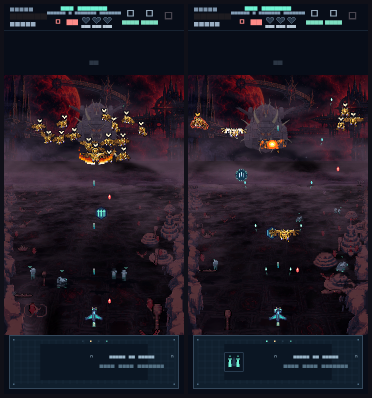
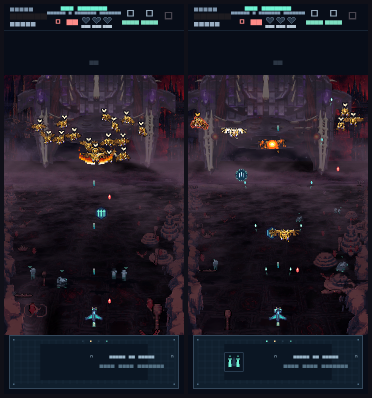
boss-carrier-wire: specs, ledger and review sheets
- boss-grandeur deltas: carrier framing and draw-size floors, runtime decay
  overlay, wreck shadows, baked belly, per-run set combinations, faceless
  deck, decay event vocabulary; design section 13, tasks section 7.
- Ledger section 7 (packs, picks, sheets, what is left); styleguide section 6
  names are now the emitted ones.
- art/contact/boss-carrier-wire-*.png (in-game frames) and the regenerated
  boss-grandeur strips (now on the thorn carrier).

Claude-Session: https://claude.ai/code/session_01ALj27NA6A3MCHkUBk5WCWy
Tillandsias-Host: macuahuitl
Generated-By: tool=claude-code

Changed region(s): [[0.5027, 0.1809, 0.9462, 0.4523], [0.0296, 0.1809, 0.4731, 0.4221], [0.0887, 0.3317, 0.1478, 0.4221]]

diff --git a/openspec/changes/boss-grandeur/specs/arcade-presentation/spec.md b/openspec/changes/boss-grandeur/specs/arcade-presentation/spec.md
@@ -3,11 +3,15 @@
 ## ADDED Requirements
 
 ### Requirement: Boss overflight
-During the boss arrival the boss SHALL fly in from behind the player: its belly and shadow SHALL sweep up the screen over the ship, shrink toward the horizon and sink into the far fog. The overflight SHALL be presentation only and SHALL never hide the ship at more than 55 percent opacity.
+During the boss arrival the boss SHALL fly in from behind the player: its belly and shadow SHALL sweep up the screen over the ship, shrink toward the horizon and sink into the far fog. Where the boss art provides a baked underside, the overflight SHALL show that underside; otherwise it SHALL show the hull. The overflight SHALL be presentation only and SHALL never hide the ship at more than 55 percent opacity.
 
 #### Scenario: Arrival
 - **WHEN** the squadron arrives in the boss sector
 - **THEN** a huge dark hull passes overhead from behind the ship, shrinks toward the horizon and disappears into the fog
+
+#### Scenario: Baked underside
+- **WHEN** the run's carrier has a baked belly view
+- **THEN** the overflight shows its armoured underside rather than its top
 
 ### Requirement: Boss fight altitude
 When the boss reaches the front the fight SHALL climb: the ground below SHALL appear farther away, with terrain, ground units and shadows smaller and their parallax slower, easing smoothly and never stepping. Ground combat ranges and outcomes SHALL be unchanged.
@@ -22,6 +26,20 @@ During the boss fight the play area SHALL zoom out by at most 14 percent and bac
 #### Scenario: Wide swerve
 - **WHEN** the boss sweeps across the arena and turns
 - **THEN** the play area eases out a little to show its range and eases back in as it slows
+
+### Requirement: Carrier camera framing
+When the boss is a carrier hull larger than the arena, the boss camera SHALL frame the play area between 86 and 70 percent instead: it SHALL ease to 86 percent as the carrier rises, and the same range, swerve and climb terms SHALL take it toward 70 percent at the same rate limit and pivot. During threat holds it SHALL ease back toward 86 percent.
+
+#### Scenario: Carrier fight on a phone
+- **WHEN** a carrier fight has climbed and the carrier sweeps wide on a 360 by 640 phone
+- **THEN** the play area is framed at no less than 70 percent, the carrier spills off the top and both sides, and the HUD and controls keep their size
+
+### Requirement: Carrier draw-size floors
+Where the carrier framing would draw a creature below 34 CSS pixels or the ship below 36, it SHALL be drawn larger to keep the floor, while its hitbox stays unchanged.
+
+#### Scenario: Smallest carrier framing
+- **WHEN** the carrier framing reaches 70 percent
+- **THEN** the far-row creature is drawn at least 34 CSS pixels and the ship at least 36, and a scripted fight is identical to the fight at full zoom
 
 ### Requirement: Camera zoom gameplay safety
 Camera zoom SHALL NOT change any hitbox, collision, spawn or firing outcome, and touch input SHALL map through the zoom so the ship follows the finger exactly. At the smallest zoom, creatures SHALL stay at least 34 CSS pixels, the ship 36 and enemy bullets 3. The zoom SHALL hold during dive warnings, rush locks and ground-missile warnings. With reduced motion the zoom SHALL be static.
@@ -59,6 +77,20 @@ The boss SHALL show its decay in stages: shield cells going dark one by one, sco
 - **WHEN** the boss's core is destroyed
 - **THEN** its modules detonate in order and their wrecks fall into the fog before the victory pursuit
 
+### Requirement: Runtime decay overlay
+The scorched stage SHALL be a runtime overlay on the intact art: darkening, crystal flicker and ember cracks. Where a hull's art has no look for a later stage, that stage SHALL be shown as the intact art under a heavier overlay, and modules that broke away SHALL be left as charred stumps, never as holes.
+
+#### Scenario: A later tour without stage art
+- **WHEN** a tour-three carrier, whose art has only its intact look, loses its shield and then a module
+- **THEN** it darkens with glowing ember cracks, and the lost module's place is a charred stump while its wreck falls with its shadow
+
+### Requirement: Wreck shadows and a whole hull to the end
+Each falling wreck SHALL throw a shadow shaped by its own sprite's silhouette onto the fog below, and in the collapse the hull SHALL keep its shape until each piece breaks away, the carapace sinking last.
+
+#### Scenario: Collapse of a carrier
+- **WHEN** a carrier's core is destroyed
+- **THEN** its pieces break away one by one from the intact hull, each sinking into the fog with a matching shadow
+
 ### Requirement: Giant boss hull beyond the screen
 The boss art MAY be larger than the screen and spill off its edges; its hit areas and weak points SHALL stay on the shared on-screen geometry at every zoom.
 
@@ -74,8 +106,19 @@ As the boss fight climbs, the fog SHALL flow faster past it while the ground bel
 - **THEN** the fog banks stream faster and darken under the boss's shadow
 
 ### Requirement: Per-run boss module sets
-Each run's boss SHALL draw its modules from a module set picked from the run's seed, and each tour SHALL add more guns, spikes and barriers. These choices SHALL be visual only.
+Each run's boss SHALL be one of its tour's baked set combinations (three on the first tour), picked deterministically from the run's seed; a run without a seed SHALL draw the first combination. Each tour SHALL add more guns, spikes and barriers. These choices SHALL be visual only.
 
 #### Scenario: Two runs, same tour
 - **WHEN** two runs with different seeds reach the same tour's boss
 - **THEN** their bosses may use different module sets while their hit areas and endurance follow the same rules
+
+#### Scenario: Same seed
+- **WHEN** a run is replayed with the same seed
+- **THEN** its carrier is drawn with the same set combination
+
+### Requirement: Faceless carrier deck
+The carrier's hangar deck SHALL never read as a face: the deck furniture drawn over the art at the core, bays and turrets SHALL use plain hatch leaves without teeth, weak-point glows in vertical slits, solid bulkheads that split the deck into separate hatches, and dark gun barrels with ember muzzles; art features near the deck that read as eyes or fangs SHALL be toned down to the hull's value.
+
+#### Scenario: Engaged carrier
+- **WHEN** a carrier engages at its widest framing on a phone
+- **THEN** its prow reads as a hangar deck of three hatches between gun blisters, with no eyes, mouth or teeth

diff --git a/openspec/changes/boss-grandeur/design.md b/openspec/changes/boss-grandeur/design.md
@@ -268,3 +268,39 @@ a placeholder and does not tune the look to it. What R8 changed here:
   seconds pooled +4.9 % (gate 5 %), hits +2.1 %; Easy +3.8 %, Normal +1.1 %, Hard +9.4 % (gate 10 % each). The
   ablations are in `plan/calibration-current.md`.
 - **Review strips** also include `boss-grandeur-phone.png` (1:1) and `boss-grandeur-wide.png` (1280 × 720).
+
+## 13. The v2 carriers wired in (boss-carrier-wire, 2026-11-16)
+The Thornwake carriers of `boss-hero-assets` §8 replace the frigate placeholder. What changed here:
+- **Grammar on the v2 slots.** `BossSlot` is the family's slots (carapace, prow, wing, spines, emitter, blister, maw,
+  barrier, tendril, sac, crown); tours have 9 / 13 / 17 / 21 / 24 instances at extent ×1.00 → ×1.32 and the detach
+  ranks of the family (spines 1, blisters 2, wings 3, emitters 4, maws 5 …; carapace and prow never). Battery suffixes
+  give `blister_aftL` and the like. The v1 grammar (spine, bow, tower …) is retired with the frigate hero page; the v1
+  frontal atlases stay as the fallback and the v1 tools stay frozen.
+- **Set combinations, not runtime mixing.** `BossGrammar.baked` lists each tour's baked hulls (tour 1: thorn, lattice,
+  shroud). A run picks one from its run seed (`BossGrammar.variantFor(runSeed, route)`, a 32-bit mix); an unseeded
+  run (tests, the calibrated campaign) is variant 0, the thorn. `Carrier.variant` keeps its draw from the boss stream so
+  the glide of later carriers does not move (boss endurance unchanged: pooled +4.86 %). Beyond tour 5 the seeded pick
+  is among the tour 3–5 hulls.
+- **The pack.** `boss_sheet pack BAKE RIG carrier1-thorn=frigate …` writes each hull under its own key with
+  `replaces` (the tour class) and `set`, one 4096-wide page each (11.8–15.5 MB resident), and the manifest's belly to
+  its own page. `BossPainter` loads the run's hull (pages and belly) from the sector before the carrier.
+- **Front pass.** The `prow` (or the v1 `bow`) is drawn after the creatures; everything else before.
+- **Carrier band** (`boss-hero-assets` §8.3). With a v2 hull the zoom runs in Z ∈ [0.70, 0.86]: the rise eases to
+  0.86, the same range, swerve and climb terms (mapped onto the band) take it to 0.70, holds ease back to 0.86, and the
+  reduced-motion framing is 0.78. At 0.70 the creature (33.9 CSS px) and ship (33.6) floors bind, so they are
+  draw-size floors (`ArenaCamera.floorScale`); bullets keep 3.5 px. Hitboxes never see Z (the scripted fight is
+  identical at 0.70).
+- **Decay overlay.** S1 is a runtime overlay (char, crystal flicker, ember hairline cracks from the fire points,
+  `srcATop` on the hull's own pixels). A stage a hull has no layers for (tours 2–5: S0 only so far) is drawn as S0
+  under a heavier overlay, and a module that tore away is drawn as a charred stump (its holdout left no hole). The
+  prow gets no cracks within 60 units of the centre line (embers round the deck read as teeth).
+- **Decay events** on the styleguide §6 names (see the `arcade-combat` delta): the model reads the run's assembly
+  (visual data only) for the slot, set and rank.
+- **Faceless deck.** The frigate's fanged jaw leaves, lit bay windows and pale barrels made the v2 prow read as a face.
+  For carriers the scene draws its own deck: chitin hatch leaves, vertical weak-point slits, two bulkheads that split
+  the slot into three hatches, dark barrels with ember muzzles, a tint over the thorn prow's pale blister tusks, and a
+  shade that takes the prow dome down to the hull's value ceiling (styleguide §7.1).
+- **Belly and wrecks.** The Overflight draws `fin_belly` (×0.3 in its frame, ≈ 2 screens wide as it enters); hulls
+  without one borrow the thorn's. Wrecks cast a shadow masked by their own sprite's alpha; the collapse keeps the hull
+  whole until each piece breaks away (the carapace last), and carrier pieces sink (less gravity, more shrink) instead
+  of sliding over the ship. The carapace and prow (no wreck frames) sink their own layer.

diff --git a/plan/render-runs/boss-carrier-v2.md b/plan/render-runs/boss-carrier-v2.md
@@ -294,3 +294,48 @@ Go finishing and sheets took a few minutes more.
    stage scale of 0.4.
 3. The scythe-arm wrecks are cropped by the envelope (the wing extends past it). Give wrecks their own frame
    (`--envelope off` rig for wrecks).
+
+## 7. Wired into the game (boss-carrier-wire, 2026-11-16, no GPU)
+Branch `work/boss-carrier-wire`; the runtime notes are in `openspec/changes/boss-grandeur/design.md` §13.
+
+**Packed** (`boss_sheet pack BAKE RIG carrier1-thorn=frigate carrier1-lattice=frigate carrier1-shroud=frigate
+carrier2-thorn=cruiser carrier3-lattice=battlecruiser carrier4-shroud=battleship carrier5-thorn=dreadnought`; each hull
+under its own key, one 4096-wide page):
+
+| Hull | Resident | PNG |
+| --- | --- | --- |
+| carrier1-thorn | 15.53 MB | 1.08 MB (+ belly 0.06 MB) |
+| carrier1-lattice | 14.59 MB | 1.22 MB |
+| carrier1-shroud | 14.72 MB | 1.11 MB |
+| carrier2-thorn (S0) | 12.97 MB | 0.87 MB |
+| carrier3-lattice (S0) | 11.84 MB | 0.84 MB |
+| carrier4-shroud (S0) | 12.72 MB | 0.79 MB |
+| carrier5-thorn (S0) | 14.59 MB | 0.86 MB |
+
+The superseded frigate hero page (1.66 MB) is retired. Web build: the game grows 92.27 → 97.51 MB (+5.25 MB; the gallery
+bundle copies the same assets). A player downloads only the run's hull (≈ 1 MB) when the carrier sector nears.
+
+**Picks (delegated)**
+- **Set per run from the run seed**, unseeded runs draw the thorn: the calibrated campaign and every page test keep
+  one deterministic carrier, and the boss stream's draw is kept so later carriers' glides do not move.
+- **The v1 frigate grammar is retired, not kept beside v2.** Keeping it would need its bake (not in the cache) and a
+  second grammar for one superseded placeholder; the frontal atlases still back a hull that is not packed.
+- **Faceless deck in the scene, not in the art.** The first in-game frames read as a face: the frigate's fanged jaw
+  sprite sat in the core slot, its lit bay windows read as eyes, the pale barrels and the thorn prow's own bone tusks
+  under the blisters read as teeth, and the light prow dome put its rows of ports in eye contrast. The fixes are
+  runtime: chitin hatch leaves, vertical slits, two bulkheads (three hatches, not one slot), dark barrels with ember
+  muzzles, a tint over the tusks, a dome shade to the §7.1 value ceiling.
+- **Missing stage looks** (tours 2–5): S0 under a heavier runtime overlay, torn modules as charred stumps.
+- **Belly for every hull** is the thorn's (the only one baked), at ×0.3 in the overflight frame.
+
+**Sheets** (`test/boss_carrier_wire_review_test.dart`, `--dart-define=BOSS_CARRIER_WIRE_CONTACT=true`):
+`art/contact/boss-carrier-wire-{thorn,lattice,shroud}.png` (engage, climb + swerve, S2, S3),
+`-phone.png` (Z 0.70 on 360 × 640), `-tour3.png`, `-tour5.png`, `-overflight.png`, `-collapse.png`.
+
+**Left (art lane)**
+1. Stage looks (S2, S3) and their budget for tours 2–5; until then the overlay fallback carries them and reads weaker
+   than the baked looks.
+2. Bellies for the lattice and shroud sets and tours 2–5.
+3. The thorn prow's rows of dark ports on the dome still suggest eyes at Z 0.86 to a primed eye (shaded, not fixed);
+   the lattice tour-3 prow's crystal-and-strut row and the shroud scale field (ledger §5) still read as teeth.
+4. The tour-2 core glow reroll and the scythe-arm wreck frames (§6) are unchanged.

diff --git a/openspec/changes/boss-grandeur/specs/arcade-combat/spec.md b/openspec/changes/boss-grandeur/specs/arcade-combat/spec.md
@@ -10,15 +10,23 @@ The boss SHALL glide vertically within 16 arena units of its fight row, determin
 - **THEN** the boss's row never leaves the band of 16 units around its fight row
 
 ### Requirement: Composable boss ships
-Each tour SHALL field a larger and more complex boss assembled from a spine and modules (for example 5, 8, 11, 14 and 17 modules on tours one to five), and repeat cycles beyond the fifth tour SHALL assemble seeded variants within the same budgets. Every assembly SHALL share the same core, bay, turret and solid-body geometry, and modules SHALL NOT change health, shield or fire budgets.
+Each tour SHALL field a larger and more complex boss assembled from a carapace, a prow and modules (9, 13, 17, 21 and 24 module instances on tours one to five), and repeat cycles beyond the fifth tour SHALL draw seeded picks among the largest baked hulls within the same budgets. Every assembly SHALL share the same core, bay, turret and solid-body geometry, and modules SHALL NOT change health, shield or fire budgets.
 
 #### Scenario: Later tour
 - **WHEN** the fourth tour reaches its boss
 - **THEN** the boss is visibly larger and carries more modules than the third tour's, while its hit areas and endurance follow the same rules
 
 ### Requirement: Boss decay events
-Every step of the boss's decay SHALL be emitted into the game event queue as a named event: its rise out of the fog, each shield cell going dark, the shield's depletion, each armour plate lost, each module lost at a form change, and the collapse.
+Every step of the boss's decay SHALL be emitted into the game event queue as a named event, once per step and per module, in the fixed order shield, armour, modules, collapse: its rise, each shield cell, the shield at half, the shield down, armour shed, each module lost, the core exposed, and the collapse with each falling wreck and its end. The names SHALL be the styleguide's decay vocabulary, and every event SHALL carry the run's set combination.
 
 #### Scenario: Shield worn down
 - **WHEN** the player's shots wear the boss's shield from full to nothing
-- **THEN** twelve shield-cell events and one shield-depleted event are queued, in order
+- **THEN** twelve shield-cell events, one shield-failing event at half and one shield-down event are queued, in order
+
+#### Scenario: Names
+- **WHEN** a carrier is fought from full shield to its collapse
+- **THEN** the queue carries `bossShieldCellLost`, `bossShieldFailing`, `bossShieldDown`, `bossArmourShed`, `bossModuleLost`, `bossCoreExposed`, `bossCollapseStart`, `bossWreckFalls` (the carapace last) and, when the victory rout ends, `bossCollapseEnd`
+
+#### Scenario: Module torn away
+- **WHEN** the boss's core damage moves it into its next form
+- **THEN** a module-lost event names the slot that broke away, after the armour-shed event for that slot

diff --git a/openspec/changes/boss-grandeur/tasks.md b/openspec/changes/boss-grandeur/tasks.md
@@ -46,3 +46,13 @@
 ## Workflow follow-up
 - Consumes `boss-hero-assets` atlases when they land (view set, module layers, wrecks); until then the frontal atlas is used for every view.
 - Operator phone playtest, then `openspec archive boss-grandeur`.
+
+## 7. The v2 carriers wired in (boss-carrier-wire, design §13)
+- [x] 7.1 Grammar on the v2 slot ids (carapace, prow, wing, spines, emitter, blister + tours 2–5 slots); `prow` is the front pass; the v1 frigate hero retired
+- [x] 7.2 Pack the three tour-1 combinations and the tour 2–5 S0 bakes (`boss_sheet pack HULL=CLASS`: own keys, `replaces`, `set`, belly page); the run picks one from its run seed; unseeded runs draw the thorn
+- [x] 7.3 Missing stage looks fall back to S0 under the runtime overlay, torn modules as charred stumps
+- [x] 7.4 Carrier band Z 0.70–0.86, draw-size floors at 0.70, fog-bank shadows (already in, 6.2)
+- [x] 7.5 Decay events on the styleguide §6 names; the S1 runtime overlay kept
+- [x] 7.6 `fin_belly` in the Overflight
+- [x] 7.7 Wreck shadows from the wreck sprites' alpha
+- [x] 7.8 `test/boss_carrier_wire_review_test.dart` → `art/contact/boss-carrier-wire-*.png`

diff --git a/docs/styleguide/alien-capital-ships.md b/docs/styleguide/alien-capital-ships.md
@@ -126,10 +126,11 @@ carries the size; the sets and the prompts carry the menace.
 - Beyond tour 5 (repeat cycles), the seeded assembly draws extra sets per slot under the same budget.
 
 ## 6. Damage and decay vocabulary
-Every step is a named event for the game event queue (`lib/game/game_events.dart`, owned by `boss-grandeur`) so the
+Every step is a named event for the game event queue (`lib/game/game_events.dart`, owned by `boss-grandeur`; wired in
+boss-carrier-wire, so the names below are the ones the game emits) so the
 future dynamic music engine can score it. The art for each step is listed beside it.
 
-| Step | Event (proposed name) | Trigger | What the player sees | Art |
+| Step | Event | Trigger | What the player sees | Art |
 |---|---|---|---|---|
 | Shield hit | `bossShieldCellLost` (data: cell, remaining) | each shield point lost | one cyan hex cell flashes white and splits into shards | overlay (`alien-insignia` §5.1) |
 | Shield failing | `bossShieldFailing` | shield ≤ 50 % (S1) | the crystals flicker and dim, soot and ember hairline cracks spread | S1 stage look |

diff --git a/openspec/changes/boss-hero-assets/design.md b/openspec/changes/boss-hero-assets/design.md
@@ -254,7 +254,8 @@ page) and writes the hull under the tour key it replaces. It is **not committed 
 asserts that `BossGrammar.tour(0)` (v1 ids: spine, bow, tower, engines) equals the packed hull's module ids, and the v2 ids
 are `carapace, prow, wingL/R, spines, emitterL/R, blisterL/R`. The runtime owner switches the grammar to the v2 slots,
 treats the `prow` (mount bow) as the front pass (today `BossPainter` hard-codes `bow`), picks a set combination per run
-among the baked hulls of a tour, then packs.
+among the baked hulls of a tour, then packs. Done in boss-carrier-wire (`boss-grandeur` design §13): every hull is
+packed under its own key with `replaces` and `set`, and the run picks one from its seed.
 
 ### 8.7 GPU recipe
 | Pass | Workflow | Settings | Use |
